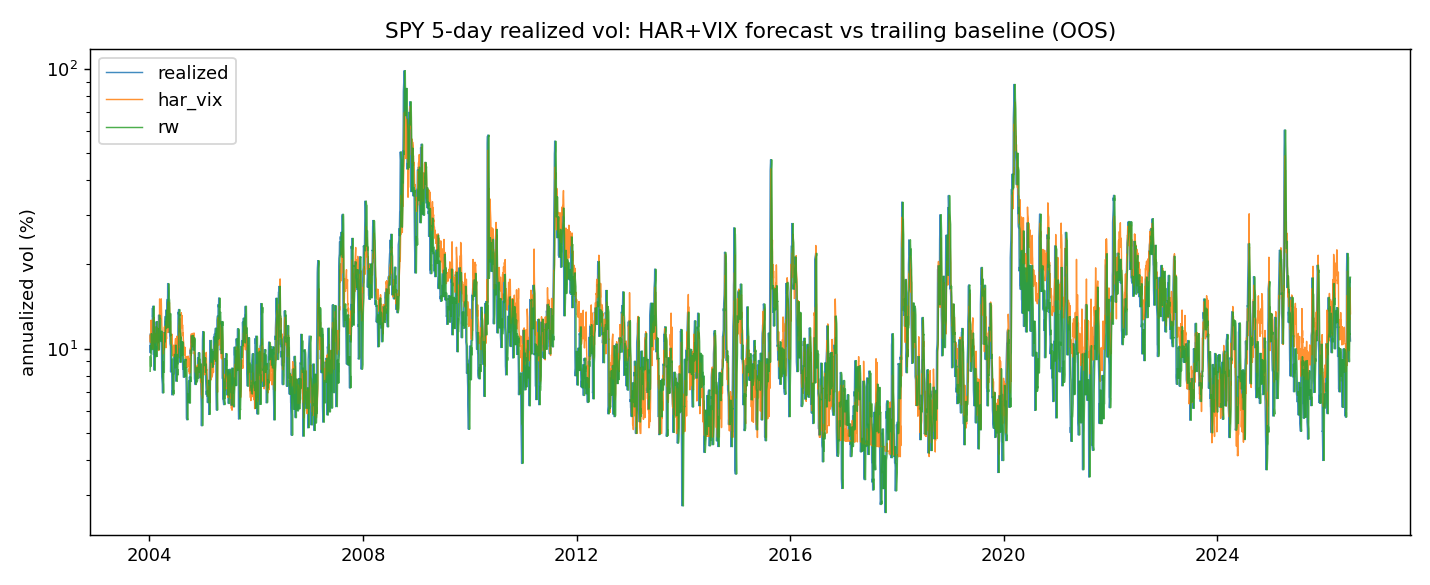
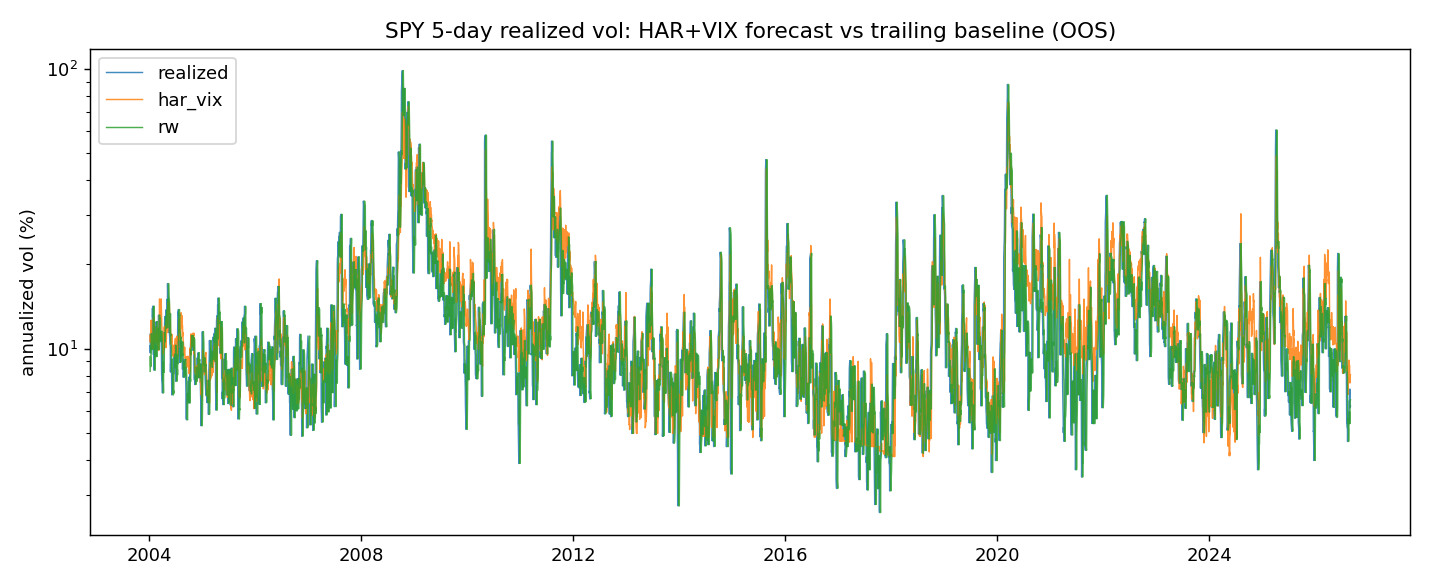
refresh data to sep 2026, re-run with the fixes, rewrite results

diff --git a/README.md b/README.md
@@ -1,32 +1,45 @@
 # vol-forecast
 
 HAR forecasts of S&P 500 realized volatility, tested against random walk, EWMA
-and GARCH(1,1). Daily SPY data from Jan 1994 to Jul 2026 (8,181 days),
+and GARCH(1,1). Daily SPY data from Jan 1994 to Sep 2026 (8,225 days),
 out-of-sample from 2004. The vol proxy is Garman-Klass daily variance, with
 Parkinson as a cross-check.
 
-Main result: HAR wins at every horizon. Adding VIX helps at the one tenor it's
-priced for (22 days), does nothing at 5 days, and makes 1-day forecasts worse.
+Main result: log-space HAR with VIX wins at every horizon. Two of my earlier
+headline claims died on closer inspection — "HAR beats GARCH everywhere" was
+mostly a level-bias artifact, and "VIX only helps at 22 days" was an artifact
+of fitting in levels. Details below.
 
 ## Results
 
-QLIKE, out-of-sample 2004-2026, ~5,600 days (lower is better):
+QLIKE, out-of-sample 2004-2026, ~5,700 days (lower is better):
 
 | model | 1d | 5d | 22d |
 |---|---|---|---|
-| rw | 0.644 | 0.311 | 0.386 |
-| ewma | 0.477 | 0.323 | 0.330 |
-| garch | 0.486 | 0.336 | 0.338 |
-| har | **0.378** | 0.249 | 0.283 |
-| har_vix | 0.748 | **0.242** | **0.258** |
+| rw | 0.641 | 0.310 | 0.385 |
+| ewma | 0.435 | 0.299 | 0.350 |
+| garch | 0.410 | 0.268 | 0.275 |
+| har | 0.377 | 0.249 | 0.283 |
+| har_vix | 0.743 | 0.241 | 0.258 |
+| har_log | 0.367 | 0.235 | 0.274 |
+| har_vix_log | **0.328** | **0.204** | **0.257** |
 
-Diebold-Mariano: HAR beats rw, ewma and garch at all three horizons (stats -1.9
-to -15.3). har_vix vs har: -2.74 at 22d, -0.61 at 5d. Full tables in
-`results/metrics.csv` and `results/dm_tests.csv`.
+`har_vix_log` beats everything at all three horizons (Diebold-Mariano vs
+`har_log`: -6.7 / -5.2 / -2.3). Full tables in `results/metrics.csv` and
+`results/dm_tests.csv`. Two results changed my read of the problem:
 
-The 1-day har_vix number isn't a typo. The OLS weight on VIX pushes short-horizon
-forecasts negative in calm markets, and the floor only partly saves it. Log-HAR
-or HARQ would probably fix it; I didn't pursue that here.
+- **Level calibration matters more than model choice at 22 days.** Before the
+  c2c-to-GK rescale, GARCH's 22d QLIKE was 0.338 and "HAR beats GARCH" looked
+  clean at every horizon. Calibrated GARCH scores 0.275 — statistically
+  indistinguishable from levels-HAR (DM +0.72). Most of GARCH's apparent loss
+  was level bias against the GK proxy, not worse dynamics.
+- **The levels har_vix fit still blows up at 1 day** (0.743): the OLS weight on
+  VIX drags short-horizon forecasts into the floor in calm markets. Fitting in
+  logs fixes it outright (0.328). The levels row stays in the table because the
+  failure mode is informative.
+
+VIX in logs helps at every horizon, not just the 22-day tenor it's priced for —
+the old "only at 22d" conclusion was the levels fit punishing itself at 1d.
 
 ## Method
 
@@ -43,6 +56,9 @@ or HARQ would probably fix it; I didn't pursue that here.
   - `har` — OLS of forward variance on daily, weekly (5d) and monthly (22d)
     trailing variance, fit separately per horizon
   - `har_vix` — same plus VIX, converted to daily variance units
+  - `har_log`, `har_vix_log` — the same regressions in log variance, mapped
+    back as exp(Xb + s²/2) with s² the training residual variance; positive by
+    construction, so no flooring
 - EWMA and GARCH are fit on close-to-close returns, so they forecast
   close-to-close variance, not the GK target. Both are rescaled to the target's
   level with an expanding mean(GK)/mean(r²) ratio estimated on past data only.
